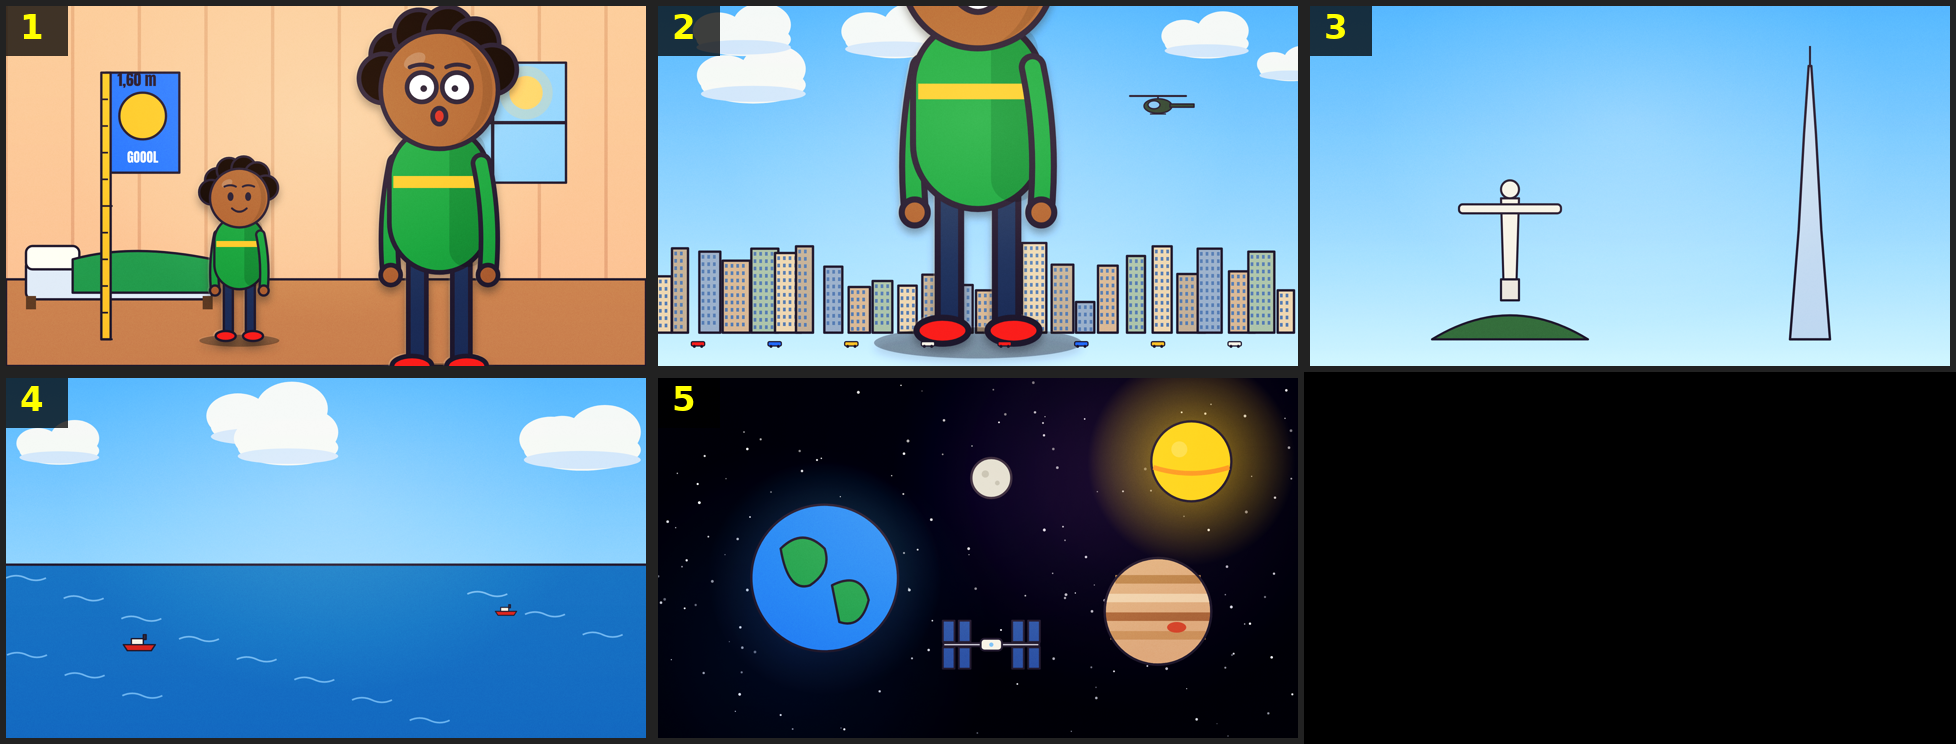
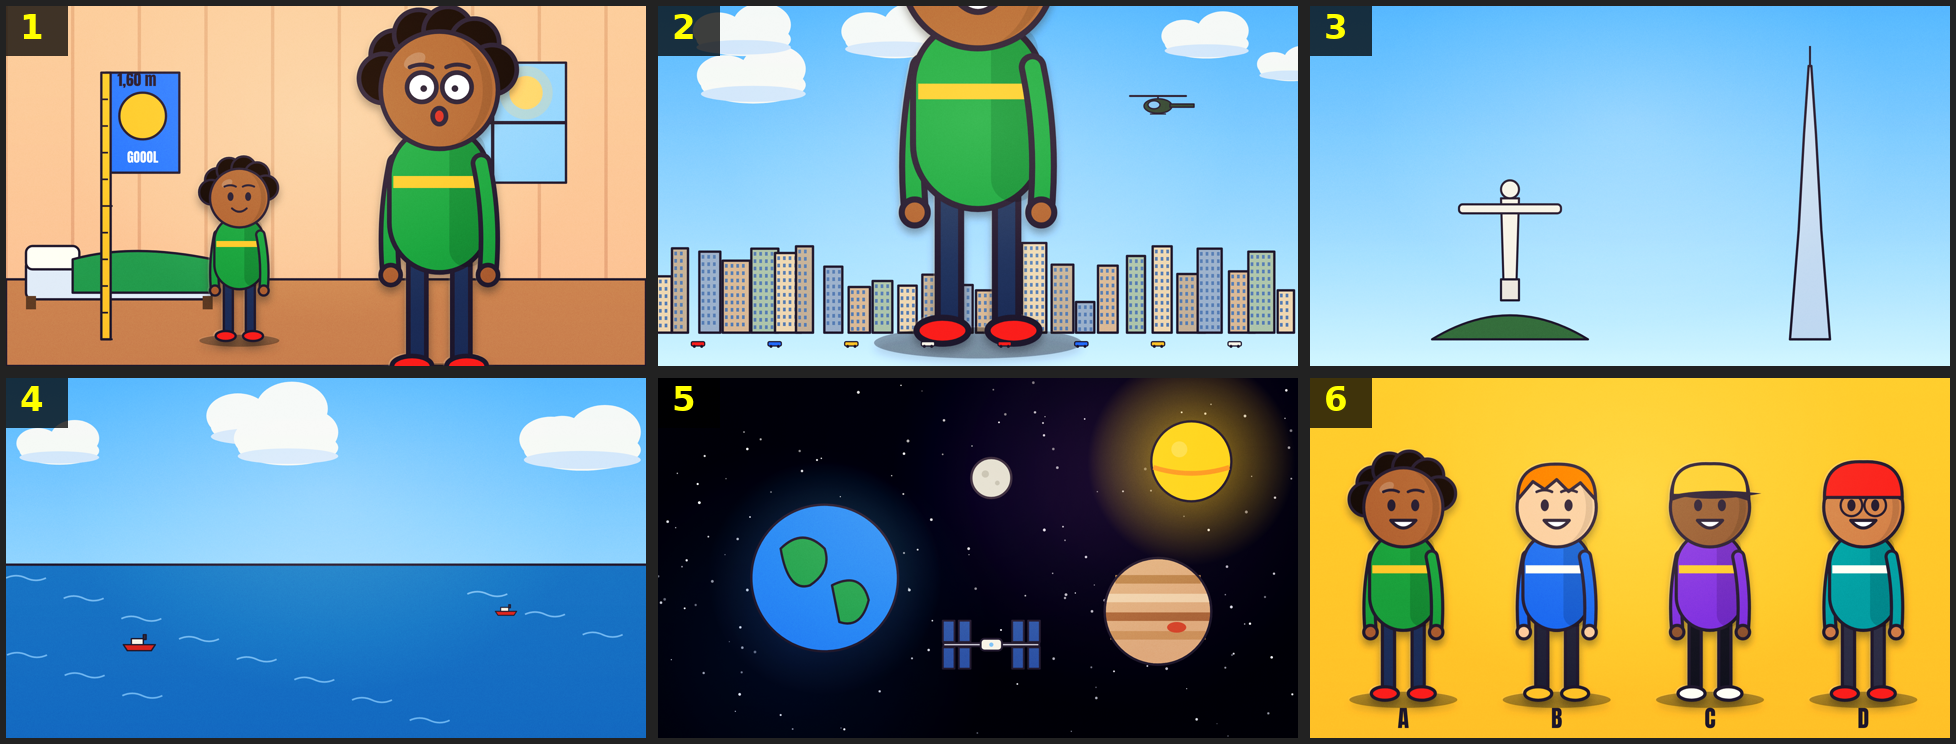
IMAGINA SÓ: opções de mascote no teste do mundo
Claude-Session: https://claude.ai/code/session_01MUXnwG6fyaHSeYanEaGS8q

Changed region(s): [[0.6549, 0.4946, 1.0, 1.0]]

diff --git a/videos/imagina-tamanho/world.ts b/videos/imagina-tamanho/world.ts
@@ -242,4 +242,10 @@ defineVisuals({
   'test-statue': { bg: '#5ab0f0', html: () => svg(`${bzSky('#5ab0f0', '#d8f0ff')}${imStatue(600, 1000, 0.9)}${imTower(1500, 1000, 820)}`), anim() {} },
   'test-sea': { bg: '#2a7ab8', html: () => svg(`${imSea(560)}${imShip(400, 800, 0.6)}${imShip(1500, 700, 0.4)}`), anim() {} },
   'test-space': { bg: '#05060e', html: () => svg(`${imSpace()}${imEarth(500, 600, 220)}${imMoon(1000, 300, 60)}${imJupiter(1500, 700, 160)}${imISS('iss', 1000, 800, 0.8)}${imStarTuco('st', 1600, 250, 120, 1)}`), anim() {} },
+  'mascots': { bg: '#f6c744', html: () => svg(`<rect width="1920" height="1080" fill="#f6c744"/>${[
+    ['A', { kid: true, tall: 1.22, skin: '#a8683e', hair: { style: 'afro', color: '#1c1410' }, top: '#2fa04a', top2: '#f6c744', pants: '#2a3a5a', shoes: '#e0302a' }],
+    ['B', { kid: true, tall: 1.22, skin: '#f0c8a0', hair: { style: 'spiky', color: '#f07a1a' }, top: '#2a6ad8', top2: '#fbf7ef', pants: '#2a2a3a', shoes: '#f6c744' }],
+    ['C', { kid: true, tall: 1.22, skin: '#8a5a3a', hat: { kind: 'cap', color: '#f6c744' }, hair: { style: 'short', color: '#1c1410' }, top: '#7a3ac8', top2: '#f6c744', pants: '#1c1c24', shoes: '#fbf7ef' }],
+    ['D', { kid: true, tall: 1.22, skin: '#c98757', hat: { kind: 'beanie', color: '#e0302a' }, hair: { style: 'messy', color: '#3a2216' }, top: '#1aa0a0', top2: '#fbf7ef', pants: '#3a3a4a', shoes: '#e0302a', glasses: true }],
+  ].map(([n, sp]: any, i: number) => `${bzChar('m' + n, sp, 280 + i * 460, 960, 1.35)}<text x="${280 + i * 460}" y="1050" text-anchor="middle" font-family="Anton" font-size="70" fill="${BZ.ink}">${n}</text>`).join('')}`), anim(tl, s) { for (const n of ['A', 'B', 'C', 'D']) bzFace(tl, '#sc-mascots #m' + n, s.t0, 'dot', 'grin'); } },
 });
